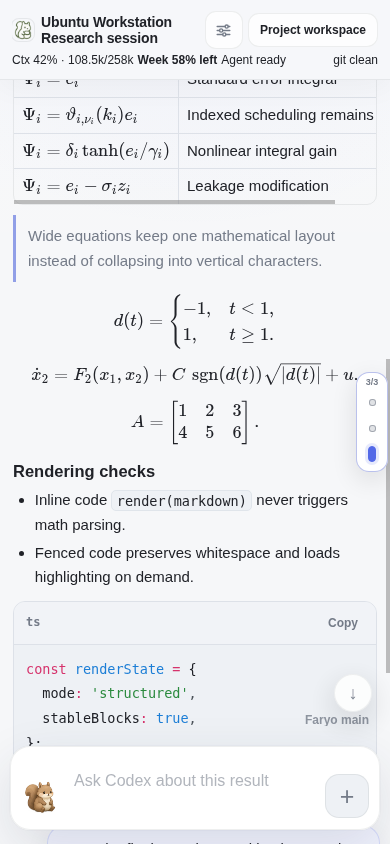
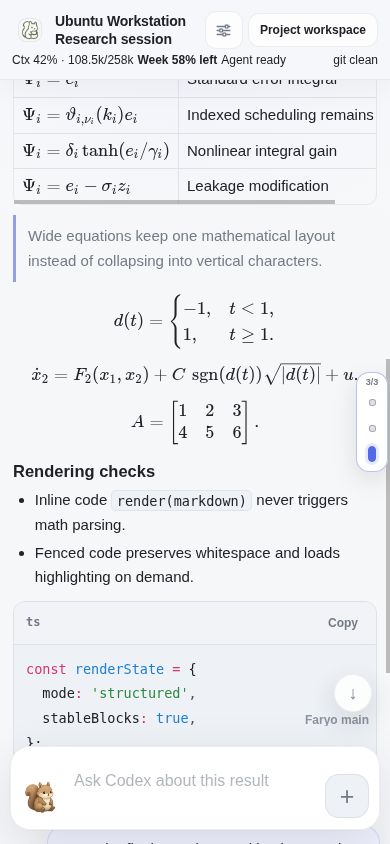
Add a Home link to the Owner header

Changed region(s): [[0.0308, 0.0, 0.4923, 0.0616]]

diff --git a/apps/owner/local-tmux-owner/static/style.css b/apps/owner/local-tmux-owner/static/style.css
@@ -10,6 +10,8 @@ header { z-index: 5; min-width: 0; max-width: 100%; overflow: hidden; padding: c
 .title-row > div:first-child { min-width: 0; flex: 1 1 auto; }
 .title-row strong { display: block; overflow: hidden; text-overflow: ellipsis; white-space: nowrap; font-size: calc(15px + var(--font-step)); cursor: pointer; }
 .brand-title { display: inline-flex !important; align-items: center; gap: 6px; max-width: 100%; }
+.brand-home { flex: 0 0 auto; width: 32px; min-width: 32px; height: 32px; min-height: 32px; display: grid; place-items: center; border-radius: 10px; color: inherit; text-decoration: none; }
+.brand-home:hover { background: color-mix(in srgb, var(--accent) 10%, transparent); }
 .brand-logo { width: 18px; height: 18px; border-radius: 6px; flex: 0 0 auto; }
 #ownerText { flex: 0 0 auto; }
 #topicText { min-width: 0; max-width: min(42vw, 170px); overflow: hidden; text-overflow: ellipsis; white-space: nowrap; }
@@ -452,6 +454,14 @@ html[data-faryo-ui="workbench-v2"] .brand-logo {
   box-shadow: 0 0 0 1px var(--owner-hairline);
 }
 
+html[data-faryo-ui="workbench-v2"] .brand-home {
+  width: 36px;
+  min-width: 36px;
+  height: 36px;
+  min-height: 36px;
+  border-radius: 11px;
+}
+
 html[data-faryo-ui="workbench-v2"] .title-row strong {
   font-size: calc(14px + var(--font-step));
   letter-spacing: -.01em;
@@ -891,14 +901,14 @@ html[data-faryo-ui="workbench-v2"] :is(button, a, textarea):focus-visible {
 
   html[data-faryo-ui="workbench-v2"] .brand-title {
     display: grid !important;
-    grid-template-columns: 22px minmax(0, 1fr);
+    grid-template-columns: 36px minmax(0, 1fr);
     grid-template-rows: auto auto;
     column-gap: 7px;
     row-gap: 0;
     line-height: 1.15;
   }
 
-  html[data-faryo-ui="workbench-v2"] .brand-logo {
+  html[data-faryo-ui="workbench-v2"] .brand-home {
     grid-row: 1 / span 2;
     align-self: center;
   }
@@ -927,7 +937,7 @@ html[data-faryo-ui="workbench-v2"] :is(button, a, textarea):focus-visible {
     line-height: normal;
   }
 
-  html[data-faryo-ui="workbench-v2"] header.collapsed .brand-logo {
+  html[data-faryo-ui="workbench-v2"] header.collapsed .brand-home {
     grid-row: auto;
   }
 

diff --git a/apps/owner/local-tmux-owner/static/index.html b/apps/owner/local-tmux-owner/static/index.html
@@ -9,7 +9,7 @@
   <meta name="theme-color" content="#0F1115" media="(prefers-color-scheme: dark)" />
   <script src="appearance.js?v=faryo-appearance-3"></script>
   <link rel="stylesheet" href="appearance.css?v=faryo-appearance-2" />
-  <link rel="stylesheet" href="style.css?v=faryo-owner-workbench-10" />
+  <link rel="stylesheet" href="style.css?v=faryo-owner-workbench-11" />
   <link rel="stylesheet" href="vendor/katex/katex.min.css?v=0.18.4" />
 </head>
 <body>
@@ -18,7 +18,9 @@
       <div class="title-row">
         <div>
           <strong id="sessionTitle" class="brand-title">
-            <img class="brand-logo" src="icons/faryo-logo.png?v=faryo-owner-3" alt="" />
+            <a id="homeBtn" class="brand-home" href="/" aria-label="Back to Faryo home" title="Faryo home">
+              <img class="brand-logo" src="icons/faryo-logo.png?v=faryo-owner-3" alt="" />
+            </a>
             <span id="ownerText">Owner</span>
             <span id="topicText">session unknown</span>
           </strong>
@@ -138,6 +140,6 @@
   <script src="compact-rules-codex.js?v=faryo-owner-plan-2"></script>
   <script src="compact-rules-claude.js?v=faryo-owner-compact-claude-8"></script>
   <script src="live-scroll.js?v=faryo-owner-live-scroll-2"></script>
-  <script src="app.js?v=faryo-owner-workbench-11"></script>
+  <script src="app.js?v=faryo-owner-workbench-12"></script>
 </body>
 </html>

diff --git a/apps/owner/local-tmux-owner/static/app.js b/apps/owner/local-tmux-owner/static/app.js
@@ -53,6 +53,7 @@
     'Tap ↓ for latest',
     '⧉ copies last output',
     'Tap title to fold header',
+    'Tap the Faryo logo for home',
     'Tap version to fold footer',
     'Tap folder to switch sessions',
     'Set font on home',
@@ -1804,7 +1805,7 @@
 
   renderOutputModeButton();
   toggleClassState('header', 'collapsed', 'rdHeaderCollapsed'); toggleClassState('.app', 'header-collapsed', 'rdHeaderCollapsed'); syncStatusRefresh(false);
-  $('sessionTitle').addEventListener('click', () => { const on = !document.querySelector('header').classList.contains('collapsed'); toggleClassState('header', 'collapsed', 'rdHeaderCollapsed', on); toggleClassState('.app', 'header-collapsed', 'rdHeaderCollapsed', on); syncStatusRefresh(!on); });
+  $('sessionTitle').addEventListener('click', (event) => { if (event.target.closest('#homeBtn')) return; const on = !document.querySelector('header').classList.contains('collapsed'); toggleClassState('header', 'collapsed', 'rdHeaderCollapsed', on); toggleClassState('.app', 'header-collapsed', 'rdHeaderCollapsed', on); syncStatusRefresh(!on); });
   sessionMenu.addEventListener('click', (event) => {
     const button = event.target.closest('button');
     if (button?.hasAttribute('data-close-panel')) { closeSurfacePanels(); return; }

diff --git a/docs/ui-interaction.md b/docs/ui-interaction.md
@@ -36,6 +36,7 @@ never receive raw Owner tokens; Gateway injects them while proxying.
 
 The Owner page contains:
 
+- a Faryo logo link back to the Gateway home page;
 - workstation/session title and session switcher;
 - agent-reported context used/window and weekly quota when available;
 - git status and structured-source/connection details;
@@ -46,6 +47,11 @@ The Owner page contains:
 
 Opening menus, details, Raw mode, or the question rail must never resize tmux or
 the Codex TUI.
+
+Header actions remain deliberately separate: the logo returns home, the title
+folds/unfolds the header, the folder switches sessions, and the sliders open
+session details. Returning home uses same-origin `/` without carrying the Owner
+token or selected-session query.
 
 ## Compact Chat
 

diff --git a/apps/owner/local-tmux-owner/README.md b/apps/owner/local-tmux-owner/README.md
@@ -92,6 +92,11 @@ position. On narrow screens it overlays the extreme edge without reserving
 permanent content width. The rail is absent in Raw mode and stores neither
 question text nor navigation state.
 
+The Faryo logo in the Owner header is a same-origin link to the Gateway home
+page. It deliberately drops the current token and session query. The adjacent
+title still folds/unfolds the header; the folder and details controls retain
+their separate session-switching and status roles.
+
 Owner does not resize tmux or the Codex TUI. Browser sends retain an
 immutable target session and client message id across timeout recovery,
 confirmed submit delivery, idempotent retries, draft preservation on failure,

diff --git a/README.md b/README.md
@@ -123,6 +123,8 @@ micromark -> mdast -> CommonMark/GFM/math nodes -> safe HTML -> KaTeX
 
 ### Workbench interaction
 
+- Uses the Faryo logo as a direct return to the Gateway home page while the
+  adjacent session title keeps its independent header-collapse action.
 - Keeps a large composer geometry across focus, blur, and mobile keyboard state.
 - Shows agent-reported context used/window and weekly quota when available.
 - Preserves the main reading position during structured refreshes.
